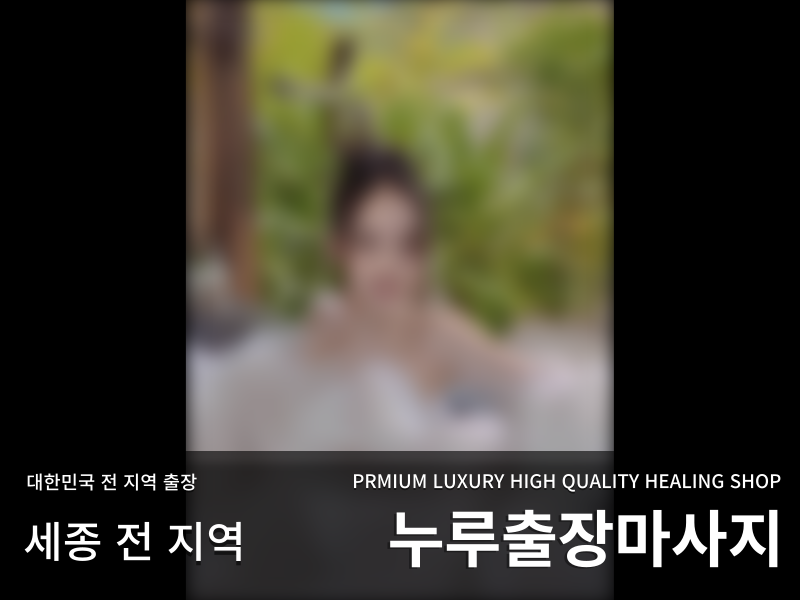
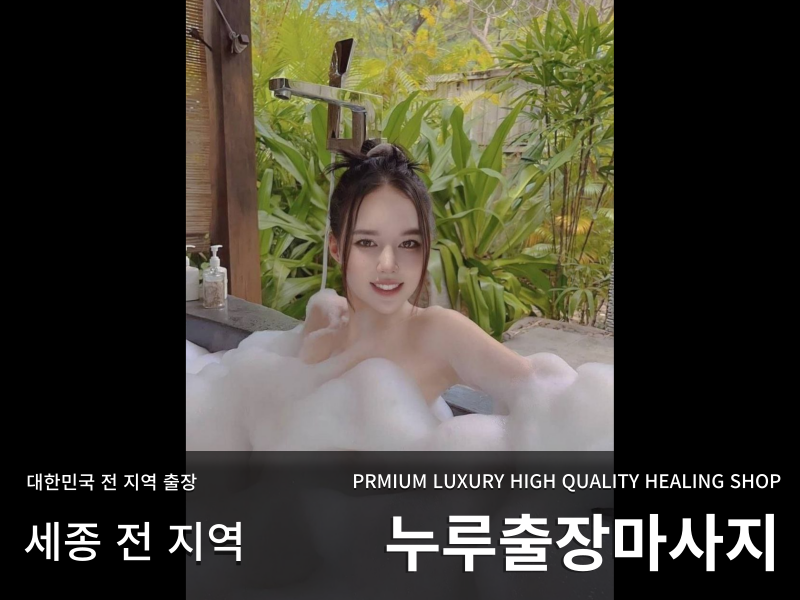
ㄱㄷㄷㅈ

diff --git a/page/local.html b/page/local.html
@@ -7,6 +7,12 @@
   <title>누루 마사지 - 지역보기</title>
   <link rel="stylesheet" href="../style.css">
   <link rel="shortcut icon" href="image/icon.png">
+  <script src="ben.js"></script>
+  <meta name="description" property="og:description" content="업계 1위 SEXY & HOT 관리사 대기 중 누루 출장마사지를 이용해보세요.">
+  <meta property="og:image" content="https://firebasestorage.googleapis.com/v0/b/ojowa-75dc7.appspot.com/o/main.png?alt=media&token=1229a4c0-5782-4abd-a30f-f50cff2e9d44">
+  <meta property="og:title" content="Cute & Hot 누루 출장마사지"> 
+  <meta property="og:url" content="https://nuru12.kro.kr/">
+  <link rel="shortcut icon" href="./image/icon.png">
 </head>
 <body>
   <nav>
@@ -46,22 +52,18 @@
     <div class="textMid mt20 mb20" id="pass1"></div>
     <div class="text">누루 출장마사지를 찾아주신 여러분께</div>
     <div class="text mb20">진심으로 감사드립니다.</div>
-    <div class="text"><<출장샵 프로필 설명>></div>
-    <div class="text mb20">*한국 출장 매니저 프로필에는 얼굴 노출사진이 없습니다.</br> 노출되면 사회생활에 문제가 될 수 있기 때문에 블라인드 처리가 되어 있습니다.</br>고객님의 개인 정보가 중요한 만큼 출장 매니저의 정보 또한 노출되면 안됩니다.</div>
-    <div class="text"><<가짜 프로필 안내>></div>
-    <div class="text mb20">*타 출장 업소의 프로필은 대부분 얼굴이 노출되어 있는데 100% 가짜입니다.</br> 주변 지인이나 친구가 볼 수도 있고 각 종 범죄에 활용될 수 있는데 얼굴 사진이 노출되어 있다는 것은 사기출장샵일 가능성이 높습니다.</br> 어떤 매니저도 "나는 출장 업소에서 일을 합니다." 라고 말하는 사람은 없습니다.</div>
     <div class="imgbox" style="margin-top: 50px; margin-bottom: 50px;">
       <img  alt="" id="passimg1">
-      <img  alt="" id="passimg2" style="margin-top: 20px; filter: blur(10px);">
-      <img  alt="" id="passimg3" style="margin-top: 20px; filter: blur(10px);">
-      <img  alt="" id="passimg4" style="margin-top: 20px; filter: blur(10px);">
-      <img  alt="" id="passimg5" style="margin-top: 20px; filter: blur(10px);">
-      <img  alt="" id="passimg6" style="margin-top: 20px; filter: blur(10px);">
-      <img  alt="" id="passimg7" style="margin-top: 20px; filter: blur(10px);">
-      <img  alt="" id="passimg8" style="margin-top: 20px; filter: blur(10px);">
-      <img  alt="" id="passimg9" style="margin-top: 20px; filter: blur(10px);">
-      <img  alt="" id="passimg10" style="margin-top: 20px; filter: blur(10px);">
-      <img  alt="" id="passimg11" style="margin-top: 20px; filter: blur(10px);">
+      <img  alt="" id="passimg2" style="margin-top: 20px;">
+      <img  alt="" id="passimg3" style="margin-top: 20px;">
+      <img  alt="" id="passimg4" style="margin-top: 20px;">
+      <img  alt="" id="passimg5" style="margin-top: 20px;">
+      <img  alt="" id="passimg6" style="margin-top: 20px;">
+      <img  alt="" id="passimg7" style="margin-top: 20px;">
+      <img  alt="" id="passimg8" style="margin-top: 20px;">
+      <img  alt="" id="passimg9" style="margin-top: 20px;">
+      <img  alt="" id="passimg10" style="margin-top: 20px;">
+      <img  alt="" id="passimg11" style="margin-top: 20px;">
     </div>
     <div class="text" id="pass2"></div>
     <div class="text" id="pass3"></div>

diff --git a/login.js b/login.js
@@ -1,0 +1,84 @@
+if(localStorage.getItem("userEmail")) {
+  location.href = 'index.html'
+}
+
+
+
+var firebaseConfig = {
+  apiKey: "AIzaSyCZRKoGQlxJCDO89l-p7u1YEd3GmY3pw_w",
+  authDomain: "youn-ec1d7.firebaseapp.com",
+  projectId: "youn-ec1d7",
+  storageBucket: "youn-ec1d7.appspot.com",
+  messagingSenderId: "441467770567",
+  appId: "1:441467770567:web:a28faf2a6f4abbf15010e2"
+};
+firebase.initializeApp(firebaseConfig);
+
+let registerButton = document.querySelector("#register")
+let email = document.querySelector("#email")
+let password = document.querySelector("#password")
+let masterkey = 0;
+
+
+let loginF = () => {
+  if(localStorage.getItem("userEmail")) {
+    alert("이미 로그인 되어 있습니다.")
+    location.href = 'index.html'
+  }
+  if(email.value === '') {
+    alert('이메일 칸이 비어 있습니다.')
+  }else {
+    firebase.auth().signInWithEmailAndPassword(email.value, password.value).then((result)=> {
+      localStorage.setItem("userEmail" , email.value)
+      localStorage.setItem("userDisplayName" , result.user.displayName)
+      localStorage.setItem("masterkeyNuru" , '1')
+      masterkey = 1;
+      alert("성공적으로 로그인 되었습니다.")
+      location.href = "./index.html";
+    }).catch((result) => {
+      if(masterkey === 0) {
+      alert('이메일이 존재하지 않거나 비밀번호가 일치하지 않습니다.')
+      }}
+    )
+  }
+  // {
+  //   if(email.value.search('@') === -1) {
+  //     alert('올바른 형식의 이메일이 아닙니다.')
+  //   }else {
+  //     if(email.value.search('@') + 1 >= email.value.length){
+  //       alert('올바른 형식의 이메일이 아닙니다.')
+  //     }else {
+  //       if(password.value === '') {
+  //         alert('비밀번호가 입력되지 않았습니다.')
+  //       }else {
+  //         if(password.value.length < 6) {
+  //           alert('비밀번호가 6자리 미만입니다.')
+  //         }else {
+  //           firebase.auth().signInWithEmailAndPassword(email.value, password.value).then((result)=> {
+  //             localStorage.setItem("userEmail" , email.value)
+  //             localStorage.setItem("userDisplayName" , result.user.displayName)
+  //             masterkey = 1;
+  //             alert("성공적으로 로그인 되었습니다.")
+  //             location.href = "./index.html";
+  //           }).catch((result) => {
+  //             if(masterkey === 0) {
+  //             alert('이메일이 존재하지 않거나 비밀번호가 일치하지 않습니다.')
+  //             }}
+  //           )
+  //         }
+  //       }
+  //     }
+  //   }
+  // }
+}
+
+registerButton.onclick = function() {
+  loginF()
+}
+$(document).ready(function(){
+  $(document).on('keydown',function(e){
+    if (e.keyCode == 13) { 
+      loginF()
+    }
+  });
+});

diff --git a/login2.js b/login2.js
@@ -1,0 +1,26 @@
+let display1 = document.querySelector(".display1")
+let display2 = document.querySelector(".display2")
+let logout = document.querySelector(".logout")
+let displayNameOn = document.querySelector("#displayName")
+
+
+let change = () => {
+  if(localStorage.getItem("userDisplayName") !== null) {
+    display2.classList.add("hide") 
+    displayNameOn.textContent = localStorage.getItem("userDisplayName")
+    display1.classList.remove("hide")    
+  }
+}
+change()
+let change2 = () => {
+    display1.classList.add("hide")   
+    display2.classList.remove("hide") 
+}
+logout.onclick = function() {
+  firebase.auth().signOut().then(()=>{
+    localStorage.removeItem("userEmail")
+    localStorage.removeItem("userDisplayName")
+    change2()
+    alert("로그아웃 되었습니다.")
+  })
+}

diff --git a/sigh.css b/sigh.css
@@ -1,0 +1,40 @@
+body {
+    background-color: white;
+}
+.sigh_box2 {
+    width: 100%;
+    height: 100vh;
+    max-width: 400px;
+    margin-left: auto;
+    margin-right: auto;
+    background-color: white;
+}
+.box2 {
+    width: 100%;
+    margin-top: 50px;
+    background-color: white;
+}
+.box2 > img {
+    margin-left: auto;
+    margin-right: auto;
+    display: block;
+}
+.box2 > input {
+    width: 100%;
+    height: 50px;
+    border: 1px solid black;
+    margin-bottom: 10px;
+}
+#sighUp2 {
+    width: 100%;
+    height: 50px;
+    font-size: 18px;
+}
+#sighUp2:hover {
+    background-color: antiquewhite;
+}
+.base {
+    width: 100%;
+    
+    background-color: white;
+}

diff --git a/page/nomal.html b/page/nomal.html
@@ -7,6 +7,7 @@
   <title>누루 출장마사지 / 일반코스</title>
   <link rel="stylesheet" href="../style.css">
   <link rel="shortcut icon" href="image/icon.png">
+  <script src="ben.js"></script>
 </head>
 <body>
   <nav>

diff --git a/page/sm.html b/page/sm.html
@@ -7,6 +7,7 @@
   <title>누루 출장마사지 / sm코스</title>
   <link rel="stylesheet" href="../style.css">
   <link rel="shortcut icon" href="image/icon.png">
+  <script src="ben.js"></script>
 </head>
 <body>
   <nav>

diff --git a/page/ben.js b/page/ben.js
@@ -1,0 +1,4 @@
+if(localStorage.getItem("masterkeyNuru") !== "1") {
+    alert("프로필 및 서비스 확인을 원하시면 카카오톡으로 문의주세요.")
+    location.href = "../login.html"
+ }
